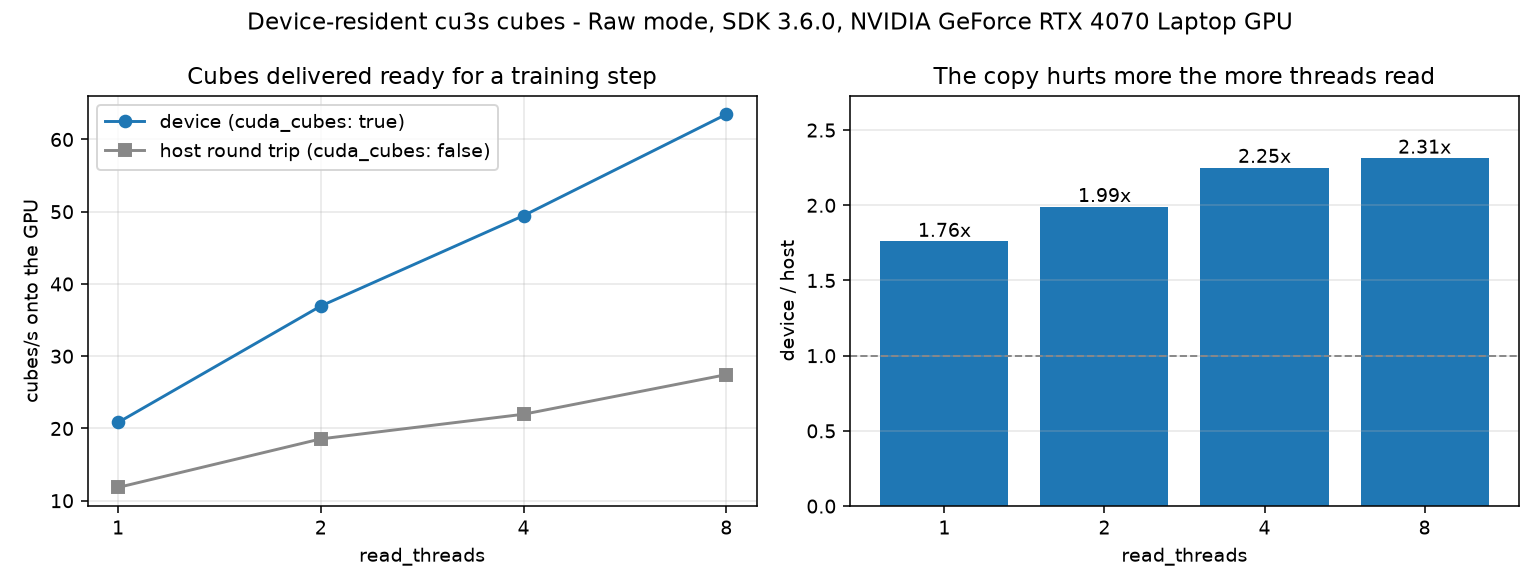
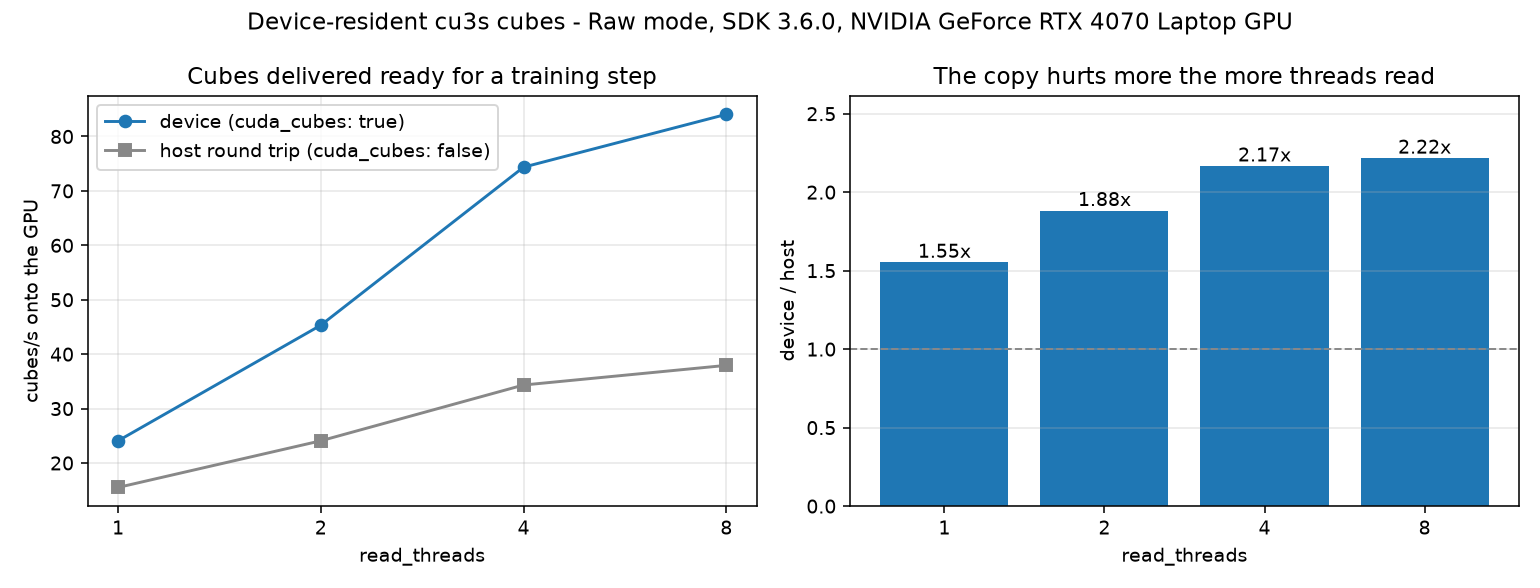
refactor(cu3s): drop the rc1 CUDA workaround now that rc2 carries the fix
cuvis 3.6.0.0rc2 ships cuvis.python#98, so CudaImageData._view no longer
calls a symbol no binding exports and its frees pass the pointer the C API
declares. Verified on rc2 with no patching at all: to_torch is bit-identical
to the host cube, and 40 read-and-drop cycles grow device memory by 0 MiB.

Removes _repair_binding and _compatible_mem_free, and with them the test
for a binding that cannot be repaired -- an rc1 wrapper is now excluded by
the version floor rather than detected at runtime. cuda_cubes_available is
back to what capabilities() alone can answer.

diff --git a/cuvis_ai_dataloader/data/readers/cu3s_cuda.py b/cuvis_ai_dataloader/data/readers/cu3s_cuda.py
@@ -23,68 +23,17 @@ _enabled = False
 _available: bool | None = None
 
 
-def _compatible_mem_free(cuvis_il, real_free):
-    """Free a device buffer through whichever calling convention the binding accepts.
-
-    The C API declares ``cuvis_cuda_mem_free(CUVIS_CUDA_MEM* i_mem)``, a pointer, but
-    ``cuvis`` 3.6.0.0rc1 passes the handle by value from both ``CudaImageData.__del__`` and
-    the DLPack capsule deleter, so every free raises ``TypeError`` and no buffer is ever
-    returned to the SDK's pool. Trying the wrapper's own form first means this stops doing
-    anything once the wrapper is fixed (cuvis.python#98).
-    """
-
-    def free(handle):
-        """Release one CUVIS_CUDA_MEM handle."""
-        try:
-            return real_free(handle)
-        except TypeError:
-            box = cuvis_il.new_p_int()
-            cuvis_il.p_int_assign(box, int(handle))
-            return real_free(box)
-
-    return free
-
-
-def _repair_binding() -> bool:
-    """Work around ``cuvis`` 3.6.0.0rc1's broken device-buffer path (cuvis.python#98).
-
-    ``CudaImageData._view`` calls ``cuvis_il.cuvis_cuda_view_ptr``, which no ``cuvis-il``
-    build exports and which was never written, so ``to_torch`` raises ``AttributeError`` on an
-    otherwise working device buffer. SWIG already converts the ``void *`` field to an int,
-    which is all the missing helper would have done. Both repairs here are in the wrapper's
-    Python layer; the native SDK and the binding are correct. Returns whether the device
-    buffer could be made reachable.
-    """
-    try:
-        from cuvis_il import cuvis_il
-    except ImportError:  # pragma: no cover - require_cuvis has already raised by here
-        return False
-    if not hasattr(cuvis_il, "cuvis_cuda_view_ptr"):
-        if not hasattr(cuvis_il.cuvis_cuda_mem_view_t(), "device_ptr"):
-            return False
-        cuvis_il.cuvis_cuda_view_ptr = lambda view: int(view.device_ptr)
-        logger.debug("patched the absent cuvis_il.cuvis_cuda_view_ptr helper")
-    if not getattr(cuvis_il.cuvis_cuda_mem_free, "_cuvis_ai_compatible", False):
-        patched = _compatible_mem_free(cuvis_il, cuvis_il.cuvis_cuda_mem_free)
-        patched._cuvis_ai_compatible = True
-        cuvis_il.cuvis_cuda_mem_free = patched
-    return True
-
-
 def cuda_cubes_available(cuvis) -> bool:
-    """Whether this build, device and binding can hand out device-resident cubes.
+    """Whether this build and device can hand out device-resident cubes.
 
-    Three separate things can deny it and the SDK answers only two: the library may lack the
-    CUDA functions, and the device may not support them. The third is the wrapper defect
-    :func:`_repair_binding` covers, which ``capabilities()`` cannot see because it probes the
-    native symbols rather than the Python layer over them.
+    Two things can deny it: the library may lack the CUDA functions, which ``cuvis.binding``
+    answers without calling anything, and the device or driver may not support them, which
+    only the SDK can answer. ``capabilities()`` covers both.
     """
     global _available
     if _available is None:
         cuda = getattr(cuvis, "cuda", None)  # absent before cuvis 3.6.0
-        _available = (
-            cuda is not None and bool(cuda.capabilities().same_process) and _repair_binding()
-        )
+        _available = cuda is not None and bool(cuda.capabilities().same_process)
     return _available
 
 
@@ -100,9 +49,8 @@ def enable_cuda_cubes(cuvis) -> bool:
         return True
     if not cuda_cubes_available(cuvis):
         logger.warning(
-            "device-resident cubes are unavailable here (needs cuvis >= 3.6.0, a CUDA device "
-            "the SDK accepts, and a binding exposing the device-buffer view); reading cubes "
-            "through host memory instead."
+            "device-resident cubes are unavailable here (needs cuvis >= 3.6.0.0rc2 and a CUDA "
+            "device the SDK accepts); reading cubes through host memory instead."
         )
         return False
     cuvis.cuda.enable()

diff --git a/tests/cuvis_ai_dataloader/data/test_cuda_cubes.py b/tests/cuvis_ai_dataloader/data/test_cuda_cubes.py
@@ -35,7 +35,6 @@ def cuda_capable(monkeypatch):
     cuda.capabilities = Mock(return_value=types.SimpleNamespace(same_process=True))
     cuda.enable = Mock()
     monkeypatch.setattr(cuvis, "cuda", cuda, raising=False)
-    monkeypatch.setattr(cu3s_cuda, "_repair_binding", lambda: True)
     return cuda
 
 
@@ -52,19 +51,6 @@ def test_an_sdk_without_cuda_support_falls_back_rather_than_raising(mock_cuvis_s
 def test_a_device_the_sdk_rejects_falls_back(mock_cuvis_sdk, cu3s, cuda_capable):
     """capabilities() is the SDK's verdict on the hardware, and it is allowed to say no."""
     cuda_capable.capabilities.return_value = types.SimpleNamespace(same_process=False)
-    reader = Cu3sCubeReader(cu3s, cuda_cubes=True)
-    try:
-        assert reader.cuda_cubes is False
-        cuda_capable.enable.assert_not_called()
-    finally:
-        reader.close()
-
-
-def test_a_binding_without_the_device_view_falls_back(
-    mock_cuvis_sdk, cu3s, cuda_capable, monkeypatch
-):
-    """capabilities() probes the native symbols and cannot see the Python glue over them."""
-    monkeypatch.setattr(cu3s_cuda, "_repair_binding", lambda: False)
     reader = Cu3sCubeReader(cu3s, cuda_cubes=True)
     try:
         assert reader.cuda_cubes is False

diff --git a/benchmarks/cuda_cubes/report.md b/benchmarks/cuda_cubes/report.md
@@ -1,13 +1,14 @@
 # Device-resident cubes (`cuda_cubes`): what the host round trip costs
 
 Session: `D:\Measurements\hbf\Auto_013+01.cu3s`, 940 frames, cube 1000x1080x61 uint8 (66 MB), `Raw` mode.
-Machine: 20 cores, RTX 4070 Laptop (8 GB), Windows 11, native CUBERT SDK 3.6.0, published `cuvis` / `cuvis-il` 3.6.0.0rc1 wheels.
+Machine: 20 cores, RTX 4070 Laptop (8 GB), Windows 11, native CUBERT SDK 3.6.0 (build `dfcc3e3`), published `cuvis` 3.6.0.0rc2 / `cuvis-il` 3.6.0.0rc1 wheels.
+rc2 matters here: rc1's `CudaImageData` could not hand out a device cube at all, and this package carries no workaround for it.
 
 Both arms are measured to the same finish line: **a cube sitting on the GPU, ready for a training step**.
 The host arm therefore pays the SDK's device-to-host copy and then torch's host-to-device copy back; the device arm pays neither.
 Anything that stops short of the GPU would be measuring the wrong thing, since a cu3s cube that never reaches the GPU is not a cube a model can consume.
 
-Each cell reads 24 frames over a rotating 10-frame window and is the median of three timed passes.
+Each cell reads 24 frames over a rotating 10-frame window and is the median of five timed passes.
 `cuvis.cuda.enable` is process-global and cannot be undone for an already-processed measurement, so the two arms run in two child processes.
 
 Raw numbers: [`results.json`](results.json).
@@ -16,10 +17,10 @@ Raw numbers: [`results.json`](results.json).
 
 | read_threads | device (`cuda_cubes: true`) | host round trip | ratio |
 | --- | --- | --- | --- |
-| 1 | 20.83 | 11.84 | 1.76x |
-| 2 | 36.95 | 18.56 | 1.99x |
-| 4 | 49.46 | 21.97 | 2.25x |
-| 8 | **63.48** | 27.45 | **2.31x** |
+| 1 | 24.08 | 15.51 | 1.55x |
+| 2 | 45.32 | 24.08 | 1.88x |
+| 4 | 74.36 | 34.33 | 2.17x |
+| 8 | **84.07** | 37.94 | **2.22x** |
 
 ![chart](chart.png)
 
@@ -27,10 +28,10 @@ Raw numbers: [`results.json`](results.json).
 
 Robust:
 
-- **1.76x to 2.31x, and the gain grows with `read_threads`.** The copy is a shared resource - PCIe and host memory bandwidth - so the more reader threads there are, the more they queue behind it. Threading and this flag compound rather than overlap.
+- **1.55x to 2.22x, and the gain grows with `read_threads`.** The copy is a shared resource - PCIe and host memory bandwidth - so the more reader threads there are, the more they queue behind it. Threading and this flag compound rather than overlap.
 - **The device cube is the same cube.** Checked per element against the host path on real data in `test_cuda_cubes_integration.py`: `np.array_equal` holds exactly. It is the same buffer the SDK already produced, not a re-computation, so this is a copy being skipped rather than a different result.
 - **VRAM stays bounded.** Thirty reads never held at once grow the process by under 256 MiB, against roughly 2 GB if each 66 MB buffer were retained. The SDK pools the buffers rather than returning them to the driver, so the plateau, not a return to baseline, is the thing to check.
-- **It is worth more than the threading it sits on top of.** At eight threads the device arm reaches 63.5 cubes/s where `benchmarks/threaded_reading/report.md` reaches 53.4 for a read that still ends in host memory, so the flag more than pays back the copy the earlier number was still carrying.
+- **It is worth more than the threading it sits on top of.** At eight threads the device arm reaches 84.1 cubes/s where `benchmarks/threaded_reading/report.md` reaches 55.6 for a read that still ends in host memory, so the flag more than pays back the copy the earlier number was still carrying.
 
 Do not over-read:
 
@@ -44,7 +45,7 @@ Do not over-read:
 ```powershell
 uv sync --all-extras --extra bench
 uv run python benchmarks\cuda_cubes\bench_cuda_cubes.py `
-    "D:\Measurements\hbf\Auto_013+01.cu3s" benchmarks\cuda_cubes Raw 24 3
+    "D:\Measurements\hbf\Auto_013+01.cu3s" benchmarks\cuda_cubes Raw 24 5
 uv run python benchmarks\cuda_cubes\make_charts.py benchmarks\cuda_cubes
 ```
 

diff --git a/CHANGELOG.md b/CHANGELOG.md
@@ -9,7 +9,7 @@ uses semantic versioning.
   was copied into host memory and its device copy freed, only for torch to copy it straight back
   for training; with this on, `batch["cube"]` is a zero-copy CUDA tensor (`cuvis.cuda` plus
   DLPack) and neither copy happens. Measured to a GPU-resident cube on one 940-frame `Raw`
-  session: **1.76x** at one reader thread rising to **2.31x** at eight, because the copy is a
+  session: **1.55x** at one reader thread rising to **2.22x** at eight, because the copy is a
   shared resource that reader threads queue behind. Evidence: `benchmarks/cuda_cubes/report.md`.
 - **The device cube is the same cube**, verified per element against the host path on real data:
   it is the buffer the SDK already produced, so this skips a copy rather than recomputing.
@@ -17,15 +17,13 @@ uses semantic versioning.
   CUDA tensor is not sent across the DataLoader worker queue and host processing leaves no device
   buffer to hand out. Turns itself off with a warning when the SDK, the device or the binding
   cannot support it.
-- **Works around two defects in the `cuvis` 3.6.0.0rc1 wrapper** (fixed upstream in
-  cuvis.python#98; the native SDK and the binding are both correct). Its `CudaImageData._view`
-  calls `cuvis_il.cuvis_cuda_view_ptr`, which no `cuvis-il` build exports, so `to_torch` raises
-  `AttributeError` on a perfectly good device buffer; and its `__del__` and DLPack deleter pass
-  the handle by value to `cuvis_cuda_mem_free`, which the C API declares as taking a pointer, so
-  every free raises `TypeError` and no buffer is ever returned to the SDK's pool. Both are
-  repaired at runtime, and both repairs become no-ops once the wrapper is fixed.
-  `cuvis.cuda.capabilities()` cannot be used to gate on this: it probes the native symbols and
-  reports the path as available regardless.
+- **Needs `cuvis` 3.6.0.0rc2**, which the `cu3s` extra requires. The rc1 wrapper could not hand
+  out a device cube at all -- `CudaImageData._view` called a `cuvis_il` symbol no build exports,
+  and its frees passed the handle by value where the C API declares a pointer, so no buffer was
+  ever returned to the SDK's pool. Both are fixed upstream in cuvis.python#98 and verified here
+  against rc2, so this package carries no workaround for them. Note `cuvis.cuda.capabilities()`
+  could not have gated on it: it probes the native symbols and reports the path as available
+  regardless.
 - `Cu3sCubeReader` reads its first cube through `_read_with` rather than reaching into the
   measurement, so the rule about when a processing mode is applied lives in one place. This also
   fixes `processing_mode=None` opening: it no longer applies a mode while probing channel count.

diff --git a/README.md b/README.md
@@ -256,9 +256,9 @@ Cubes per second delivered **onto the GPU**, one 940-frame session, `Raw`, RTX 4
 
 | read_threads | `cuda_cubes: true` | `cuda_cubes: false` | ratio |
 | --- | --- | --- | --- |
-| 1 | 20.8 | 11.8 | 1.76x |
-| 4 | 49.5 | 22.0 | 2.25x |
-| 8 | 63.5 | 27.5 | 2.31x |
+| 1 | 24.1 | 15.5 | 1.55x |
+| 4 | 74.4 | 34.3 | 2.17x |
+| 8 | 84.1 | 37.9 | 2.22x |
 
 - **`batch["cube"]` becomes a CUDA tensor** instead of a host one. It is the same cube, bit for
   bit, on the same device torch would have put it on; what changes is that nothing downstream
@@ -267,13 +267,12 @@ Cubes per second delivered **onto the GPU**, one 940-frame session, `Raw`, RTX 4
   threads queue behind. The two parameters compound.
 - **`num_workers` must be 0** and `sdk_cuda` must be on; the module raises rather than
   demoting either.
-- **It turns itself off** when the SDK, the device or the binding cannot support it, with a
-  warning, and reads through host memory instead. `cuvis.cuda.capabilities()` cannot see the
-  last of those, so it is probed rather than assumed.
-- **It needs a working `cuvis` device-buffer binding.** `cuvis` 3.6.0.0rc1 ships a wrapper that
-  calls two `cuvis_il` symbols its own binding does not export, so the package repairs them at
-  runtime; the repair does nothing once the binding is regenerated. See
-  `data/readers/cu3s_cuda.py`.
+- **It turns itself off** when the SDK or the device cannot support it, with a warning, and
+  reads through host memory instead.
+- **It needs `cuvis` 3.6.0.0rc2 or newer**, which the `cu3s` extra already requires. rc1's
+  device-buffer path raises on first use (fixed upstream in cuvis.python#98), and
+  `cuvis.cuda.capabilities()` does not catch that, since it probes the native symbols rather
+  than the Python layer over them.
 
 ### NPZ (`npz_multi`)
 
